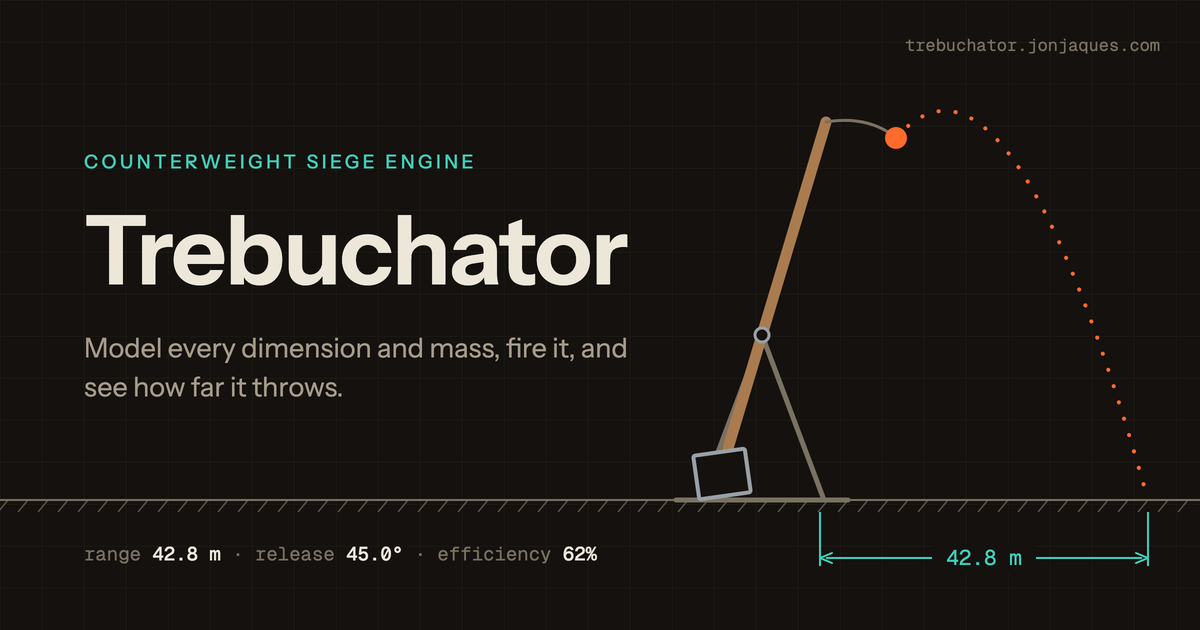
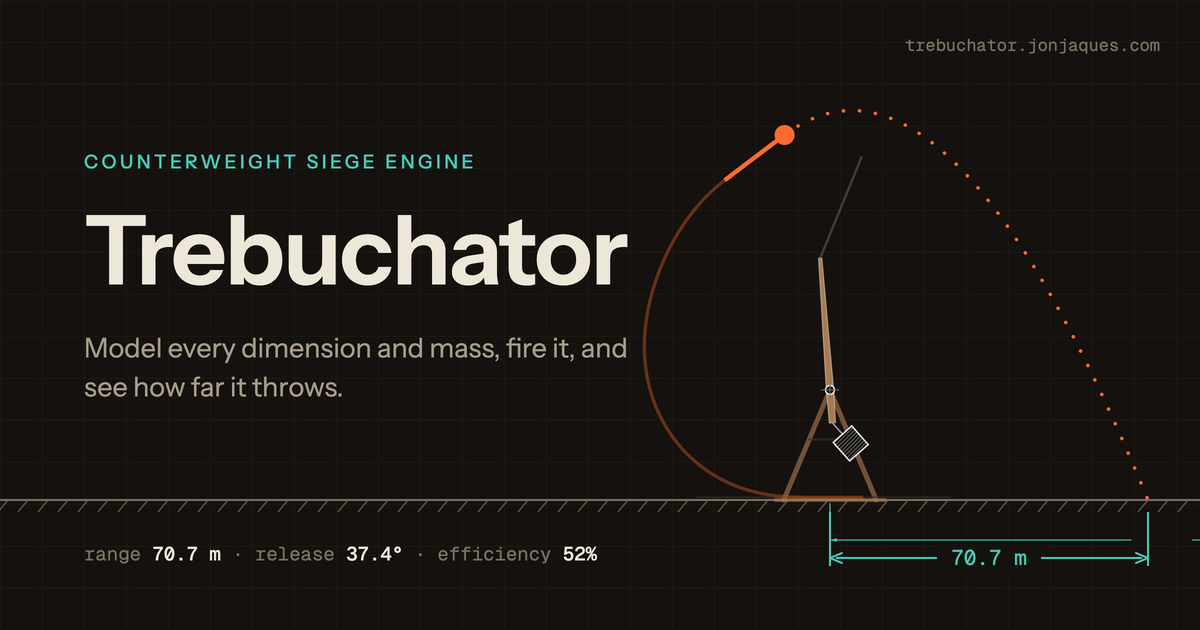
The card now shows the machine the app actually draws
The share banner's trebuchet was drawn by hand and looked like no
machine the solver has ever fired. Now scripts/og-scene.ts runs the
default shot, takes layout()'s own instructions at t = 0.93 s — tapered
beam, hatched weight box, released sling, the whip's full sweep — and
serializes them to SVG, so the card can only drift from the app by
regenerating it. The machine pose and the shot are sampled on two
clocks, each exact for its instant, because the real shot at 0.93 s sits
two beam-lengths above any camera that keeps the timber readable. The
figures on the card are the shot's own: 70.7 m, 37.4°, 52%.

Claude-Session: https://claude.ai/code/session_01XLvYy4peGsHFuhm86V8mof

diff --git a/scripts/og-scene.ts b/scripts/og-scene.ts
@@ -1,0 +1,321 @@
+// Regenerates public/og.png — the social share banner. Run: bun scripts/og-scene.ts
+//
+// The banner's machine is not drawn by hand: it is the app's own sheet at
+// t = 0.93 s of the default shot, taken from layout() and serialized to SVG, so
+// the drawing on the card is exactly the drawing in the app. The page is
+// rendered by headless Chrome (with the app's fonts inlined as data URIs, so no
+// network and no fontconfig lottery) at 2x, then downscaled by ImageMagick.
+// Both are machine deps, not package.json deps — this runs on demand, not in CI.
+import { execFileSync } from 'node:child_process'
+import { mkdtempSync, readFileSync, writeFileSync } from 'node:fs'
+import { tmpdir } from 'node:os'
+import { join } from 'node:path'
+import { DEFAULT_PARAMS } from '../src/lib/treb/presets.ts'
+import { simulateShot } from '../src/lib/treb/simulate.ts'
+import { layout, type Instruction, type Stroke, type Fill } from '../src/components/stage/sheet.ts'
+import { projector } from '../src/components/stage/camera.ts'
+
+const CHROME = '/Applications/Google Chrome.app/Contents/MacOS/Google Chrome'
+const ROOT = join(import.meta.dir, '..')
+
+const W = 1200
+const H = 630
+const T = 0.93
+const GROUND_Y = 500
+const AXLE_X = 830 // screen x of the machine datum (world x = 0)
+const LAND_X = 1148 // where the stylized arc touches down
+
+// The dark palette from index.css, verbatim. The banner is always dark: cards
+// render on feeds of every theme, and the dark sheet is the identity.
+const PAL = {
+  sheet: '#14110e',
+  ink: '#ede7da',
+  ink2: '#a79c8b',
+  ink3: '#7a7161',
+  rule: '#372f27',
+  quench: '#ff6b2c',
+  verdigris: '#3fd0bc',
+  oak: '#a97b4f',
+  iron: '#99a0a6',
+}
+
+const params = DEFAULT_PARAMS
+const result = simulateShot(params)
+if (!result.ok) throw new Error(`default shot failed: ${result.errors.join(', ')}`)
+
+// Two passes, two clocks. The machine pose is taken at T, where the beam and
+// sling sit exactly as the reference frame. The shot itself is sampled just
+// after release — by T the real shot is two beam-lengths above any camera that
+// keeps the machine readable — so timber and shot are composed, each exact for
+// its own instant.
+const T_SHOT = result.timeline.releaseT + 0.045
+
+// Where the shot is at T_SHOT and which way it is moving, in world metres.
+const flightT = T_SHOT - result.timeline.releaseT
+const traj = result.trajectory
+let at = traj[0]
+let next = traj[traj.length - 1]
+for (let k = 1; k < traj.length; k++) {
+  if (traj[k].t >= flightT) {
+    at = traj[k - 1]
+    next = traj[k]
+    break
+  }
+}
+const f = (flightT - at.t) / Math.max(1e-9, next.t - at.t)
+const shotW = { x: at.x + (next.x - at.x) * f, y: at.y + (next.y - at.y) * f }
+const vx = at.vx + (next.vx - at.vx) * f
+const vy = at.vy + (next.vy - at.vy) * f
+
+// Camera in banner pixels: ground on the banner's ground line, axle at AXLE_X,
+// and the scale chosen so the shot hangs at a set height above the machine —
+// the shot's altitude, not the timber, is what limits how big this can be.
+const scale = (GROUND_Y - 135) / shotW.y
+const cam = { cx: (W / 2 - AXLE_X) / scale, cy: (GROUND_Y - H / 2) / scale, scale }
+const p = projector(cam, W, H)
+
+const measure = (text: string, font: { size: number }) => text.length * font.size * 0.62
+const sheetAt = (t: number) =>
+  layout(
+    {
+      w: W,
+      h: H,
+      cam,
+      palette: PAL,
+      params,
+      result,
+      t,
+      showDimensions: false,
+      showAngles: false,
+      showGrid: false,
+      ghosts: [],
+      preview: null,
+      units: 'metric',
+    },
+    measure,
+  )
+
+// Sheet furniture the banner redraws full-bleed (background, ground line and
+// band, downrange ticks, lettering) plus the faint full trajectory, which a
+// stylized arc replaces.
+const groundY = p.y(0)
+const furniture = (i: Instruction): boolean => {
+  if (i.op === 'rect' || i.op === 'text') return true
+  if (i.op === 'path' && i.clip?.length === 4 && i.clip[0][0] === 0 && i.clip[1][0] === W) return true
+  if (i.op === 'path' && i.points.length === 2) {
+    const [[x0, y0], [x1, y1]] = i.points
+    if (x0 === 0 && x1 === W && y0 === y1 && Math.abs(y0 - groundY) < 0.75) return true
+    if (x0 === x1 && Math.abs(y0 - groundY) < 0.75 && Math.abs(y1 - (groundY + 5)) < 0.75) return true
+  }
+  if (i.op === 'path' && i.stroke?.dash && i.stroke.color === PAL.quench && (i.stroke.alpha ?? 1) < 0.3)
+    return true
+  return false
+}
+// Everything in the shot's accent is the shot's story; the rest is machine.
+const isShot = (i: Instruction): boolean =>
+  (i.op === 'path' && i.stroke?.color === PAL.quench) ||
+  (i.op === 'circle' && i.fill?.color === PAL.quench)
+
+// The sheet's hairlines are sized for an interactive canvas; on a card seen at
+// thumbnail size the whip, the flown segment and the shot itself need weight.
+const emphasize = (i: Instruction): Instruction => {
+  if (isShot(i)) {
+    if (i.op === 'path' && i.stroke) return { ...i, stroke: { ...i.stroke, width: (i.stroke.width ?? 1) * 2.2 } }
+    if (i.op === 'circle') return { ...i, r: Math.max(i.r, 10) }
+  }
+  if (i.op === 'path' && i.stroke?.color === PAL.ink3 && i.stroke.alpha === 0.45)
+    return { ...i, stroke: { ...i.stroke, width: 2.5 } } // the released sling
+  return i
+}
+
+const kept = [
+  ...sheetAt(T).filter((i) => !furniture(i) && !isShot(i)),
+  ...sheetAt(T_SHOT).filter((i) => !furniture(i) && isShot(i)),
+].map(emphasize)
+
+// --- instruction -> SVG ------------------------------------------------------
+
+const defs: string[] = []
+let clipN = 0
+
+function strokeAttrs(s?: Stroke): string {
+  if (!s) return 'stroke="none"'
+  const parts = [`stroke="${s.color}"`, `stroke-width="${s.width ?? 1}"`]
+  if (s.alpha !== undefined) parts.push(`stroke-opacity="${s.alpha}"`)
+  if (s.dash) parts.push(`stroke-dasharray="${s.dash.join(' ')}"`)
+  if (s.cap) parts.push(`stroke-linecap="${s.cap}"`)
+  if (s.join) parts.push(`stroke-linejoin="${s.join}"`)
+  return parts.join(' ')
+}
+
+function fillAttrs(fill?: Fill): string {
+  if (!fill) return 'fill="none"'
+  return `fill="${fill.color}"` + (fill.alpha !== undefined ? ` fill-opacity="${fill.alpha}"` : '')
+}
+
+const fmtPt = ([x, y]: [number, number]) => `${x.toFixed(2)} ${y.toFixed(2)}`
+
+function toSvg(i: Instruction): string {
+  switch (i.op) {
+    case 'path': {
+      const d = `M ${i.points.map(fmtPt).join(' L ')}${i.close ? ' Z' : ''}`
+      let clip = ''
+      if (i.clip) {
+        const id = `clip${clipN++}`
+        defs.push(`<clipPath id="${id}"><polygon points="${i.clip.map(fmtPt).join(', ')}"/></clipPath>`)
+        clip = ` clip-path="url(#${id})"`
+      }
+      return `<path d="${d}" ${fillAttrs(i.fill)} ${strokeAttrs(i.stroke)}${clip}/>`
+    }
+    case 'circle':
+      return `<circle cx="${i.x.toFixed(2)}" cy="${i.y.toFixed(2)}" r="${i.r.toFixed(2)}" ${fillAttrs(i.fill)} ${strokeAttrs(i.stroke)}/>`
+    case 'arc': {
+      // Sampled rather than converted to SVG arc flags; nothing on the sheet
+      // draws arcs precise enough to care, and sampling cannot get flags wrong.
+      const n = 24
+      const pts: [number, number][] = []
+      for (let k = 0; k <= n; k++) {
+        const a = i.from + ((i.to - i.from) * k) / n
+        pts.push([i.x + Math.cos(a) * i.r, i.y + Math.sin(a) * i.r])
+      }
+      return `<path d="M ${pts.map(fmtPt).join(' L ')}" ${fillAttrs(i.fill)} ${strokeAttrs(i.stroke)}/>`
+    }
+    default:
+      return ''
+  }
+}
+
+const machine = kept.map(toSvg).join('\n  ')
+
+// --- stylized continuation of the real flight --------------------------------
+
+// Quadratic leaving the shot along its true velocity, landing at LAND_X. The
+// arc itself is compressed — the real range at this scale would run three
+// banners wide — which is why the dimension below quotes the real figure.
+const sx = p.x(shotW.x)
+const sy = p.y(shotW.y)
+const ul = Math.hypot(vx, vy)
+const ux = vx / ul
+const uy = -vy / ul
+let k = (0.45 * (LAND_X - sx)) / Math.max(0.05, ux)
+if (sy + uy * k < -60) k = (-60 - sy) / uy
+const cx = sx + ux * k
+const cy = sy + uy * k
+
+const rangeFig = `${result.range.toFixed(1)} m`
+const releaseFig = `${result.release.angle.toFixed(1)}°`
+const effFig = `${Math.round(result.efficiency * 100)}%`
+
+// --- fonts -------------------------------------------------------------------
+
+const b64 = (path: string) => readFileSync(path).toString('base64')
+const sansFont = b64(
+  join(ROOT, 'node_modules/@fontsource-variable/instrument-sans/files/instrument-sans-latin-wght-normal.woff2'),
+)
+const monoFont = b64(
+  join(ROOT, 'node_modules/@fontsource-variable/geist-mono/files/geist-mono-latin-wght-normal.woff2'),
+)
+
+// --- the page ----------------------------------------------------------------
+
+const dimMid = (p.x(0) + LAND_X) / 2
+
+const html = `<!doctype html>
+<html><head><meta charset="utf-8"><style>
+@font-face {
+  font-family: "Instrument Sans Variable";
+  font-style: normal; font-weight: 400 700; font-display: block;
+  src: url(data:font/woff2;base64,${sansFont}) format("woff2-variations");
+}
+@font-face {
+  font-family: "Geist Mono Variable";
+  font-style: normal; font-weight: 100 900; font-display: block;
+  src: url(data:font/woff2;base64,${monoFont}) format("woff2-variations");
+}
+* { margin: 0; padding: 0; }
+body { width: 1200px; height: 630px; background: ${PAL.sheet}; overflow: hidden;
+  font-family: "Instrument Sans Variable", sans-serif; position: relative; }
+svg.scene { position: absolute; inset: 0; }
+.copy { position: absolute; left: 84px; top: 150px; width: 560px; }
+.stencil { font-size: 19px; font-weight: 500; letter-spacing: 0.18em;
+  text-transform: uppercase; color: ${PAL.verdigris}; }
+h1 { font-size: 96px; font-weight: 640; letter-spacing: -0.015em;
+  color: ${PAL.ink}; margin: 18px 0 20px; }
+.tag { font-size: 27px; font-weight: 400; color: ${PAL.ink2}; line-height: 1.45; }
+.data { position: absolute; left: 84px; bottom: 64px;
+  font-family: "Geist Mono Variable", monospace; font-size: 19px; color: ${PAL.ink3}; }
+.data b { font-weight: 500; color: ${PAL.ink}; }
+.url { position: absolute; right: 40px; top: 34px;
+  font-family: "Geist Mono Variable", monospace; font-size: 17px; color: ${PAL.ink3}; }
+.figure { font-family: "Geist Mono Variable", monospace; font-size: 21px;
+  fill: ${PAL.verdigris}; }
+</style></head><body>
+
+<svg class="scene" width="1200" height="630" viewBox="0 0 1200 630">
+  <defs>
+    <pattern id="grid" width="42" height="42" patternUnits="userSpaceOnUse">
+      <path d="M 42 0 L 0 0 0 42" fill="none" stroke="${PAL.rule}" stroke-width="1" opacity="0.45"/>
+    </pattern>
+    ${defs.join('\n    ')}
+  </defs>
+  <rect width="1200" height="630" fill="url(#grid)"/>
+
+  <!-- ground line + hatch band -->
+  <line x1="0" y1="${GROUND_Y}" x2="1200" y2="${GROUND_Y}" stroke="${PAL.ink3}" stroke-width="2"/>
+  <g stroke="${PAL.ink3}" stroke-width="1.4" opacity="0.7">
+    ${Array.from({ length: 60 }, (_, i) => {
+      const x = 8 + i * 20
+      return `<line x1="${x}" y1="${GROUND_Y}" x2="${x - 10}" y2="${GROUND_Y + 12}"/>`
+    }).join('\n    ')}
+  </g>
+
+  <!-- the app's own machine at t = ${T} s -->
+  ${machine}
+
+  <!-- the flight continues: dotted, landing on the dimension -->
+  <path d="M ${sx.toFixed(1)} ${sy.toFixed(1)} Q ${cx.toFixed(1)} ${cy.toFixed(1)} ${LAND_X} ${GROUND_Y}"
+    fill="none" stroke="${PAL.quench}" stroke-width="3.5" stroke-linecap="round" stroke-dasharray="0.1 16"/>
+
+  <!-- range dimension, drafting style -->
+  <g stroke="${PAL.verdigris}" stroke-width="2" fill="none">
+    <line x1="${p.x(0).toFixed(1)}" y1="512" x2="${p.x(0).toFixed(1)}" y2="566"/>
+    <line x1="${LAND_X}" y1="512" x2="${LAND_X}" y2="566"/>
+    <line x1="${(p.x(0) + 6).toFixed(1)}" y1="558" x2="${LAND_X - 6}" y2="558"/>
+    <path d="M ${p.x(0).toFixed(1)} 558 l 12 -5 M ${p.x(0).toFixed(1)} 558 l 12 5" stroke-linecap="round"/>
+    <path d="M ${LAND_X} 558 l -12 -5 M ${LAND_X} 558 l -12 5" stroke-linecap="round"/>
+  </g>
+  <rect x="${dimMid - 52}" y="544" width="104" height="28" fill="${PAL.sheet}"/>
+  <text class="figure" x="${dimMid}" y="565" text-anchor="middle">${rangeFig}</text>
+</svg>
+
+<div class="copy">
+  <div class="stencil">Counterweight siege engine</div>
+  <h1>Trebuchator</h1>
+  <div class="tag">Model every dimension and mass, fire it, and see how far it throws.</div>
+</div>
+<div class="data">range <b>${rangeFig}</b> · release <b>${releaseFig}</b> · efficiency <b>${effFig}</b></div>
+<div class="url">trebuchator.jonjaques.com</div>
+
+</body></html>`
+
+// --- render ------------------------------------------------------------------
+
+const work = mkdtempSync(join(tmpdir(), 'trebuchator-og-'))
+const page = join(work, 'og.html')
+const shot2x = join(work, 'og-2x.png')
+writeFileSync(page, html)
+execFileSync(CHROME, [
+  '--headless',
+  '--disable-gpu',
+  `--screenshot=${shot2x}`,
+  '--window-size=1200,630',
+  '--force-device-scale-factor=2',
+  '--virtual-time-budget=3000',
+  '--hide-scrollbars',
+  `file://${page}`,
+])
+execFileSync('magick', [shot2x, '-resize', '1200x630', join(ROOT, 'public/og.png')])
+console.log(
+  `public/og.png — range ${rangeFig}, release ${releaseFig}, efficiency ${effFig}, ` +
+    `releaseT ${result.timeline.releaseT.toFixed(3)} s, shot at (${sx.toFixed(0)}, ${sy.toFixed(0)}), ${kept.length} instructions kept`,
+)
